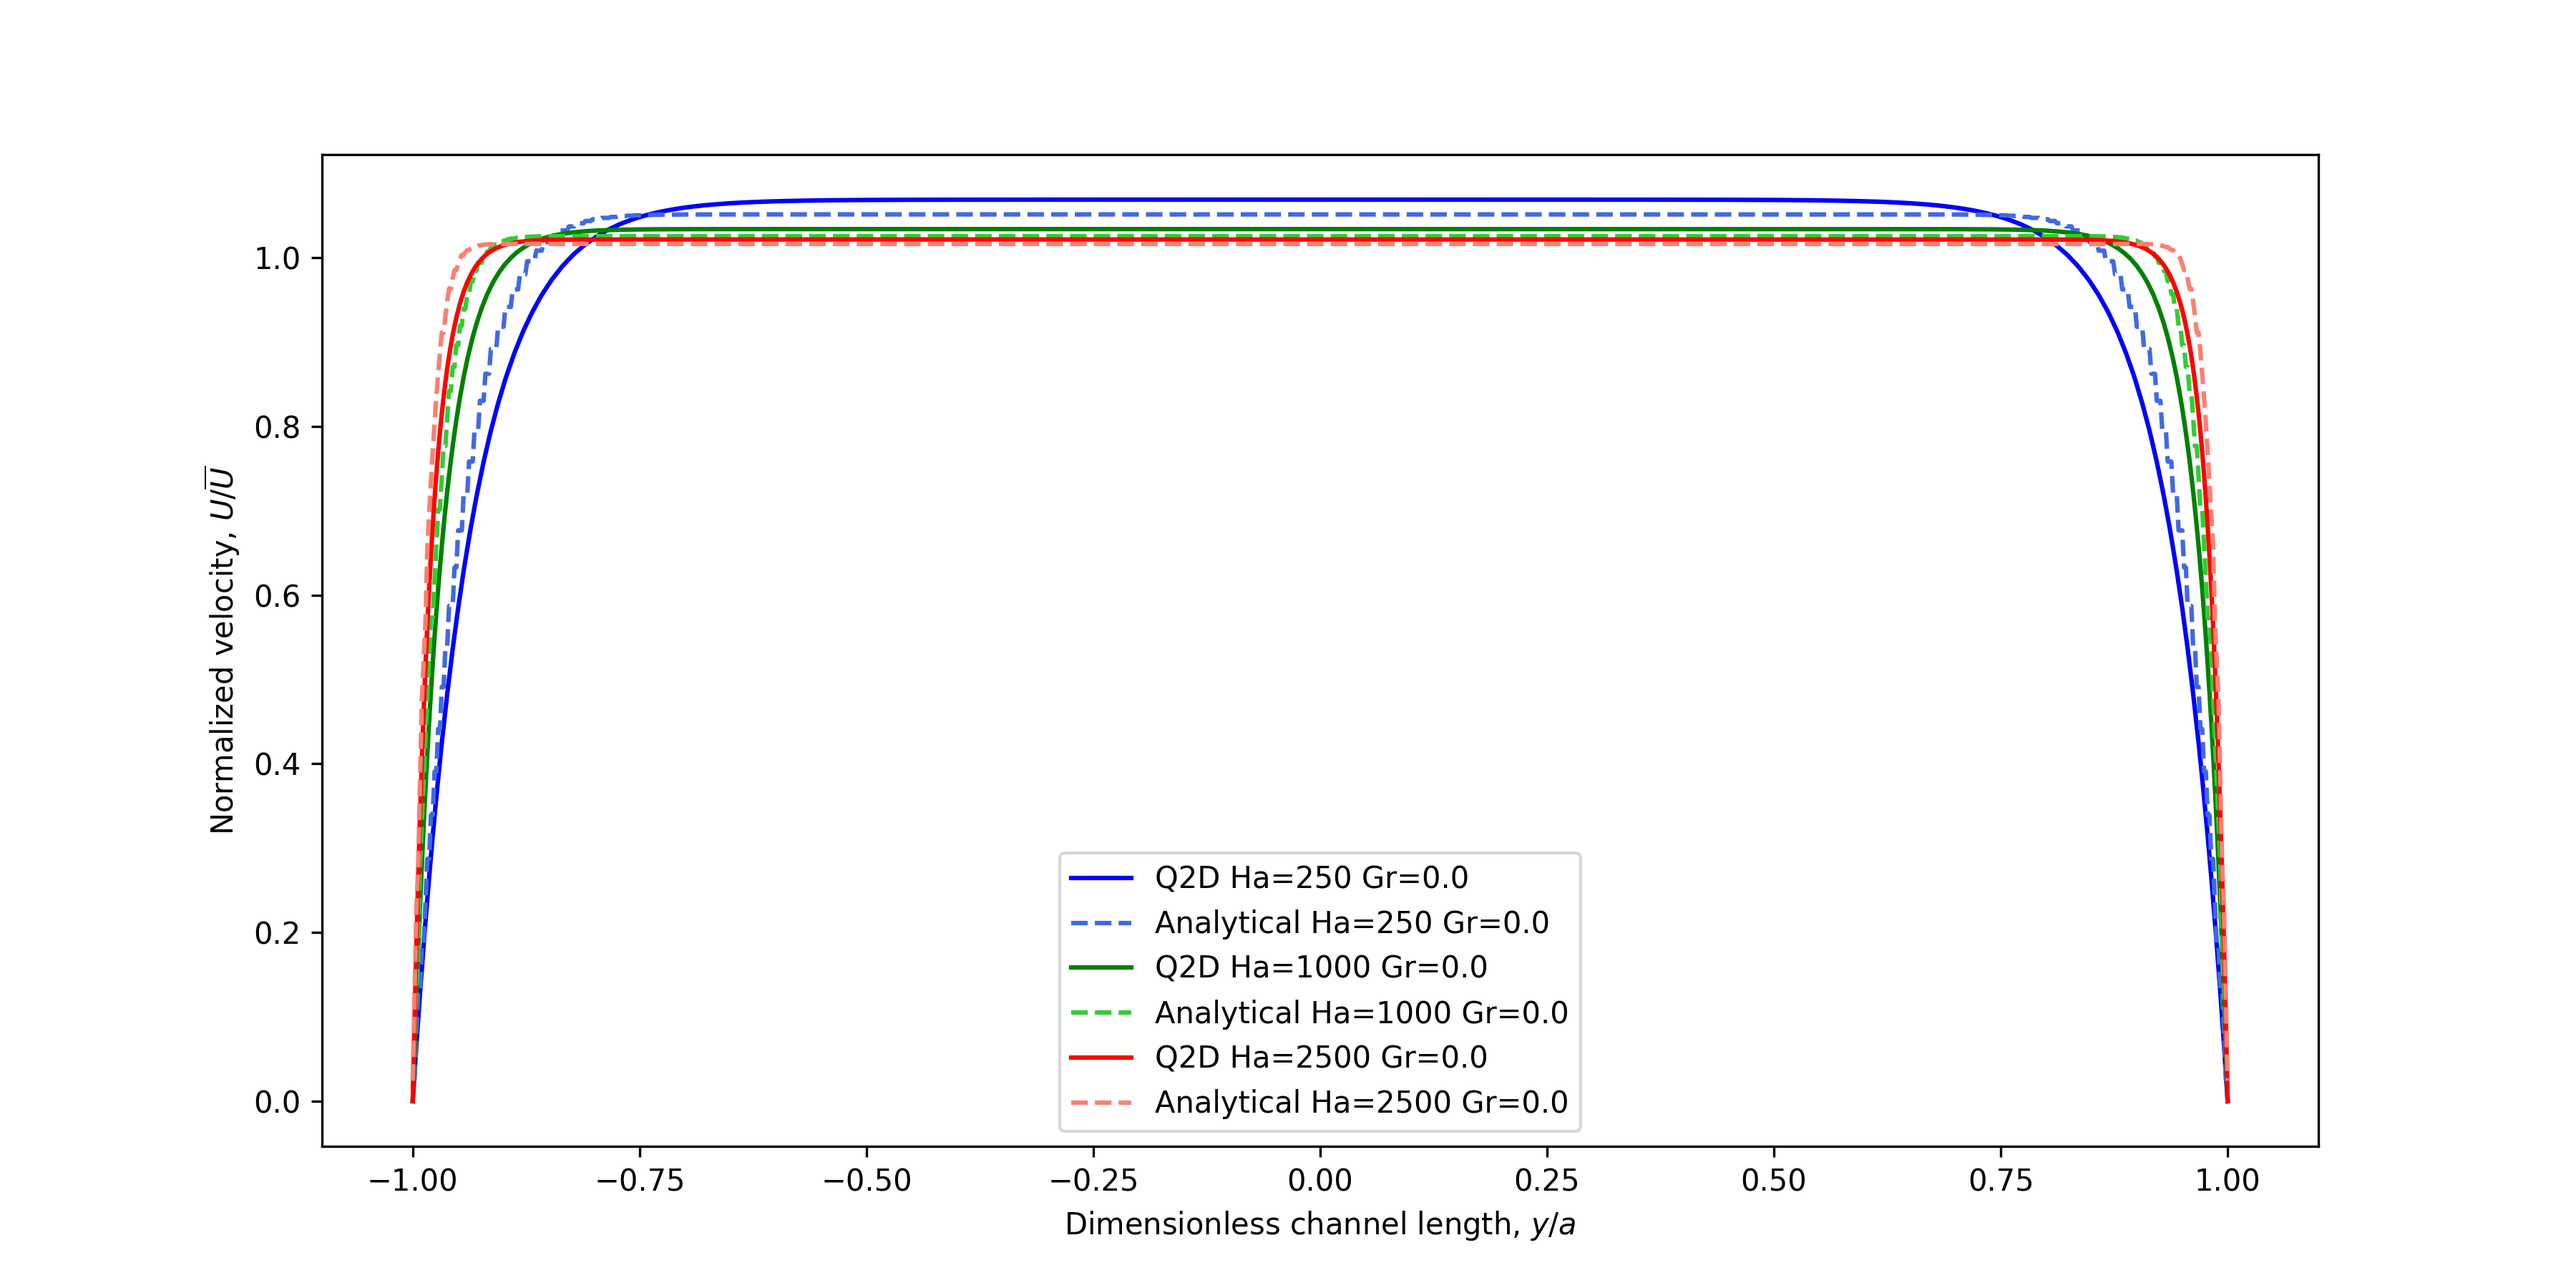
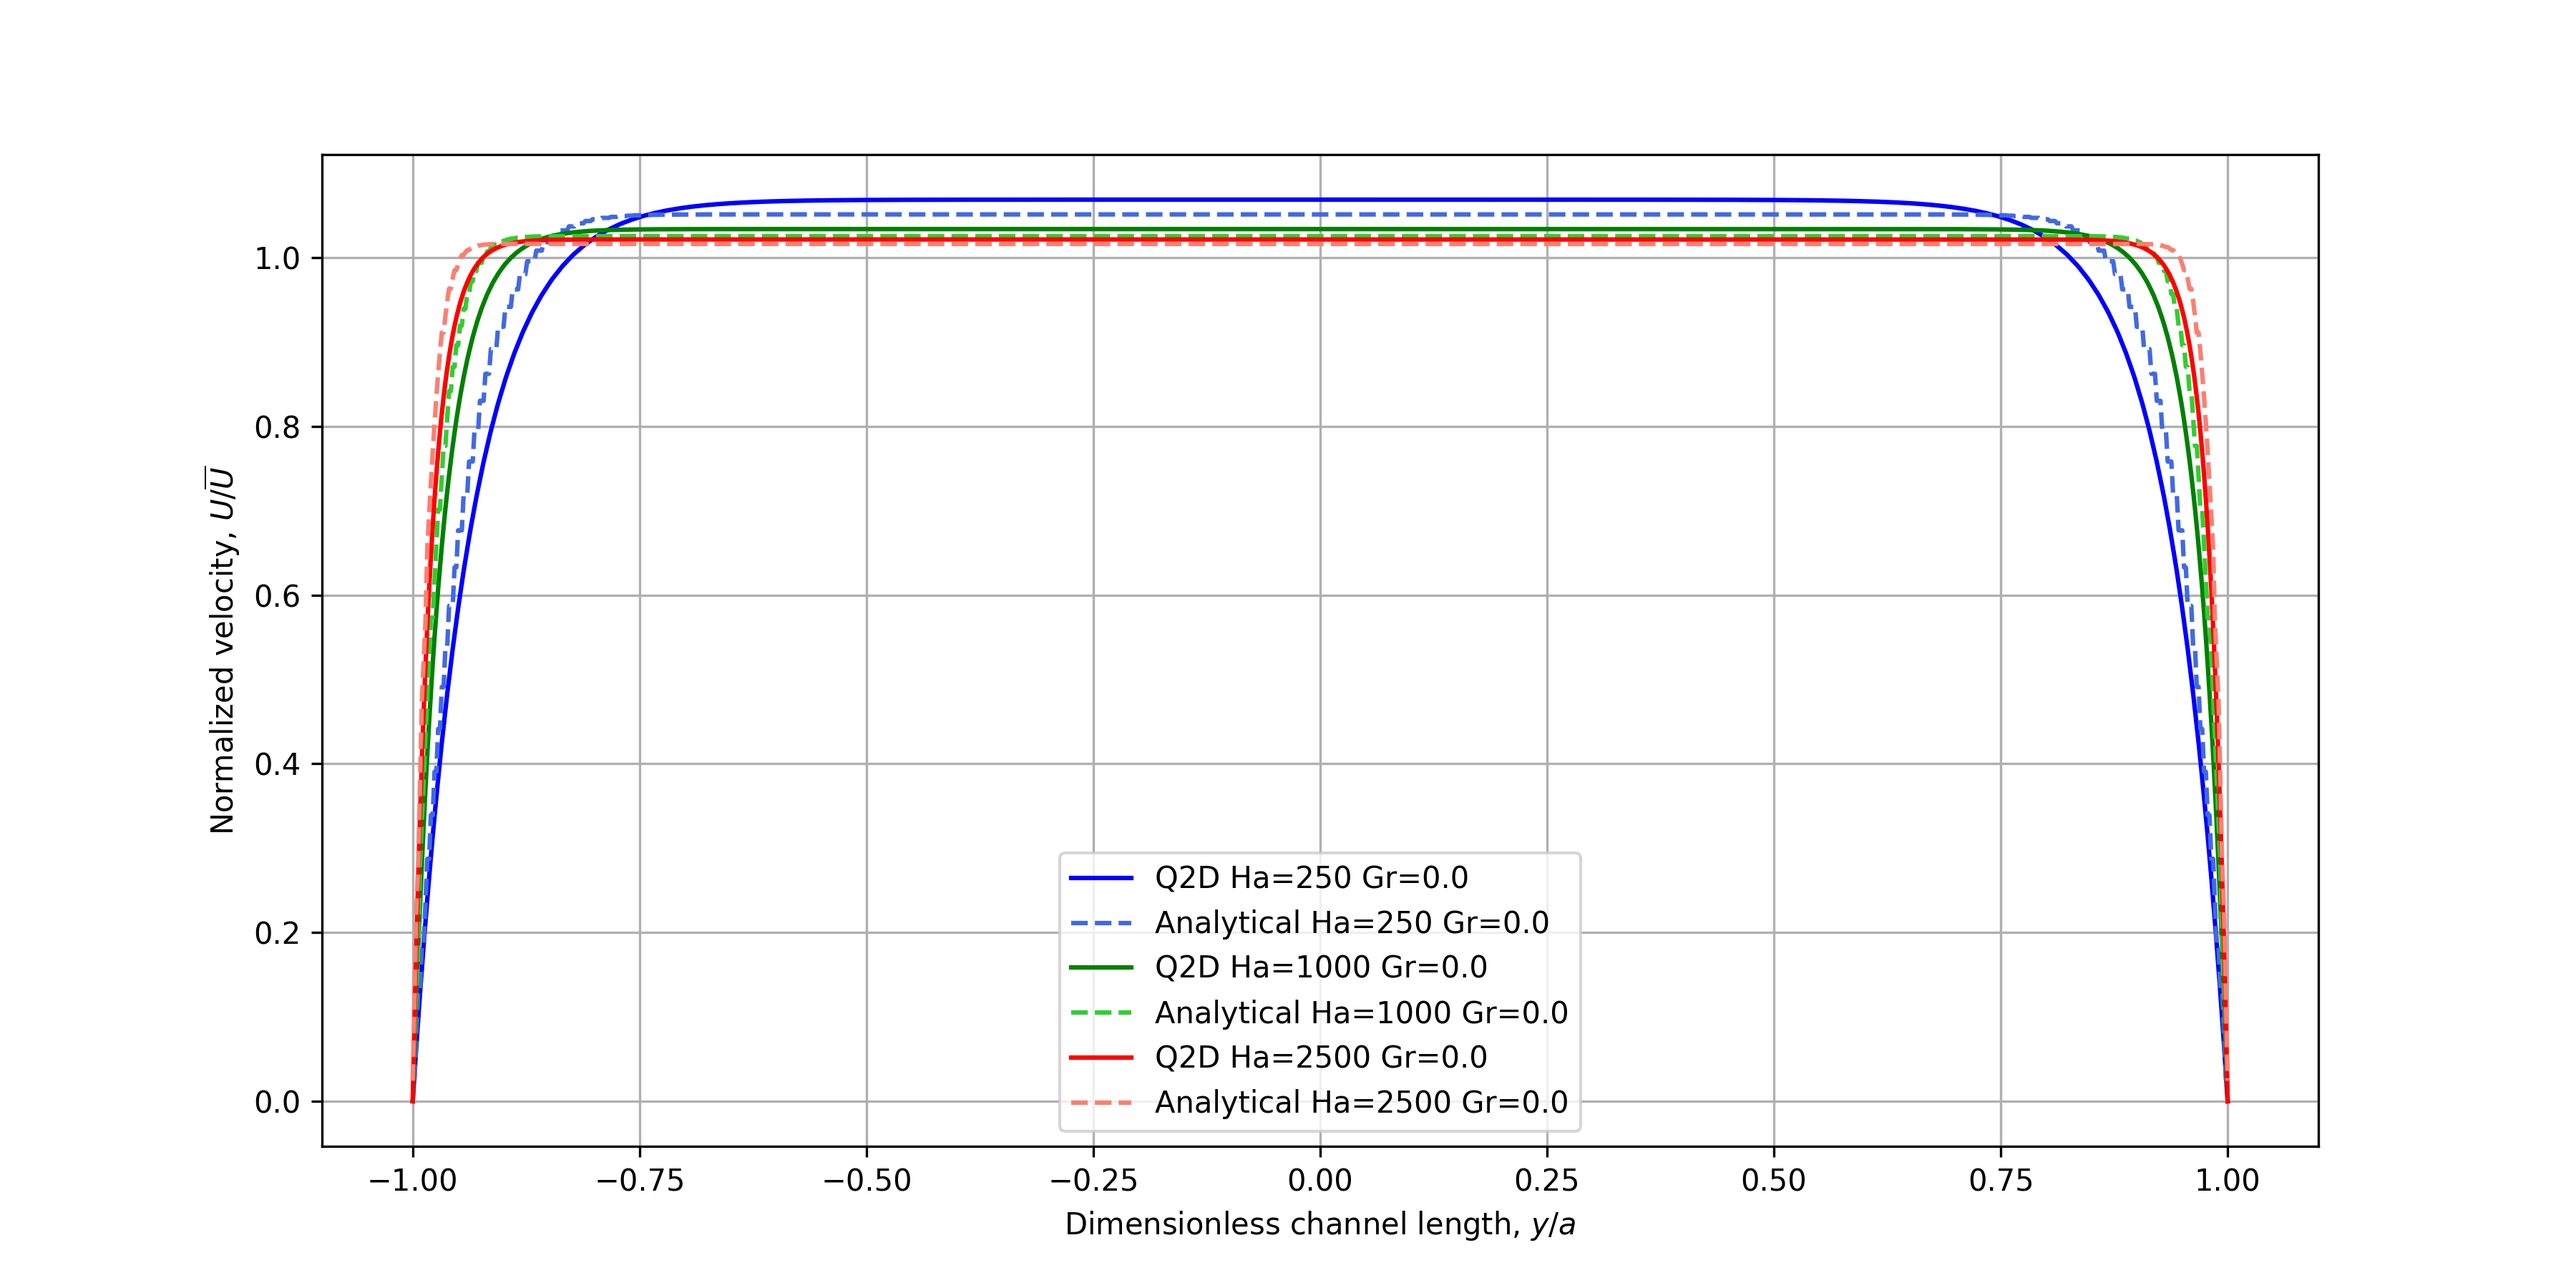
Add grid and fix dpi=300 for all val. plots

diff --git a/validation/poiseuille/validation.py b/validation/poiseuille/validation.py
@@ -60,11 +60,12 @@ u_val = (deltaP*phys_dict['rho0']) /(2*mu) * y * (h-y)
 # Plot
 ax.plot(y, u_val, label='Poiseuille')
 ax.plot(z, u_q2d, linestyle='dotted', color='r', linewidth=3, label='Q2D')
+ax.grid(True)
 ax.set_ylabel('Velocity (m/s)')
 ax.set_xlabel('Channel length (m)')
 ax.legend(loc='best')
 
 print("Q2DmhdFOAM's mean velocity:", u_q2d.mean())
 print("Poiseuille's mean velocity:", u_val.mean())
-fig.savefig('validation_poiseuille.png',format='png',dpi=100)
+fig.savefig('validation_poiseuille.png',format='png',dpi=300)
 plt.show()

diff --git a/validation/shercliff/validation.py b/validation/shercliff/validation.py
@@ -196,11 +196,13 @@ pd.DataFrame.from_dict(errors, orient='index',
 # Plot configuration
 ax_scaled.set_ylabel('Normalized velocity, $U/\overline{U}$')
 ax_scaled.set_xlabel('Dimensionless channel length, $y/a$')
+ax_scaled.grid(True)
 ax_scaled.legend(loc='best')
 fig_scaled.savefig('validation_shercliff_scaled.png', format='png',dpi=300)
 
 ax.set_ylabel('Velocity (m/s)')
 ax.set_xlabel('Channel length (m)')
+ax.grid(True)
 ax.legend(loc='best')
 fig.savefig('validation_shercliff.png', format='png',dpi=300)
 plt.show()

diff --git a/validation/tagawa/validation_tagawa.py b/validation/tagawa/validation_tagawa.py
@@ -90,6 +90,7 @@ def plot_plot(values1, values2, x, labels, **kwargs):
         ax.set_xlabel(kwargs['xlabel'])
     if 'ylim_min' in kwargs:
         ax.set_ylim(ymin=kwargs['ylim_min'])
+    ax.grid(True)
     fig.savefig('validation_tagawa.png',format='png',dpi=300)
     plt.show()
 
@@ -205,6 +206,7 @@ for Ha in Ha_list:
     sp.call("mv case case_" + str(Ha), shell=True)
     i += 1
 ax1.legend(loc='best')
+ax1.grid(True)
 fig1.savefig('validation_tagawa_profiles.png', format='png', dpi=300)
 
 # PLOT

diff --git a/validation/tepot/validation.py b/validation/tepot/validation.py
@@ -104,5 +104,6 @@ pd.DataFrame.from_dict(errors, orient='index',
                        'validation_error_tepot.csv', index=False)
 
 ax.legend(loc='best')
-fig.savefig('validation_tepot.png',format='png',dpi=200)
+ax.grid(True)
+fig.savefig('validation_tepot.png',format='png',dpi=300)
 plt.show()
